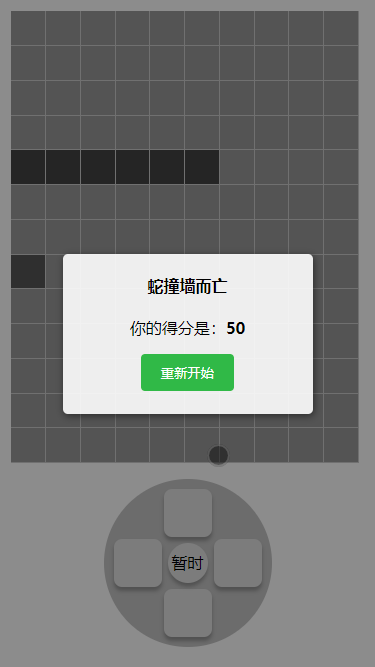
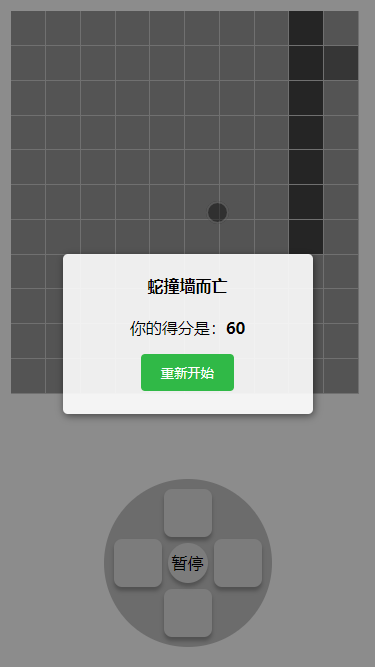
修复吃自己判断错误和多重加速问题

diff --git a/index.html b/index.html
@@ -3,9 +3,9 @@
   <meta charset="utf-8">
   <meta http-equiv="X-UA-Compatible" content="IE=edge,chrome=1">
   <meta name="viewport" content="width=device-width,minimum-scale=1.0,maximum-scale=1.0,user-scalable=no">
-  <title>Greedy snake</title>
-  <meta name="keywords" content="Greedy snake">
-  <meta name="description" content="Greedy snake">
+  <title>贪吃蛇(Greedy snake)</title>
+  <meta name="keywords" content="贪吃蛇,Greedy snake">
+  <meta name="description" content="贪吃蛇,Greedy snake">
   <style>
     body {
       padding: 0;
@@ -143,17 +143,18 @@
     </div>
   </div>
   <script>
-    let maxX = 10, maxY = 13, maxSize = maxX * maxY, snakes = [], food
+    let maxX = 10, maxY = 11, maxSize = maxX * maxY, snakes = [], food
     let directions = [[-1, 0], [0, -1], [1, 0], [0, 1]]// createInt(4) // direction 0:左,1:上,2:右,3:下
     let directionIdx = createInt(4)
     let direction = directions[directionIdx]
     let gameOver = false, timer, isPause = false
     let score = 0 // 得分
+    let speed = 500
 
     createSpaceUI()
     start()
 
-    document.addEventListener('keydown', handleKeyDown, false)
+    window.addEventListener('keydown', handleKeyDown, false)
 
     document.getElementById('handle').addEventListener('click', handleClick, false)
 
@@ -200,7 +201,6 @@
 
       if (isForward) {
         clearTimeout(timer)
-        move(false)
         move()
       }
 
@@ -258,19 +258,19 @@
      * 重新开始游戏
      */
     function restart () {
-      const snakeDom = document.getElementsByClassName('snake')
       const foodDom = document.getElementsByClassName('food')
+      let snakeDom
 
-      if (snakeDom) {
-        for (var i = 0; i < snakeDom.length; i++) {
+      snakes.forEach((item, idx) => {
+        snakeDom = document.getElementsByClassName('snake')
+
+        if (snakeDom && snakeDom[0]) {
           snakeDom[0].className = 'column'
         }
-      }
+      })
 
-      if (foodDom) {
-        for (var i = 0; i < foodDom.length; i++) {
-          foodDom[0].className = 'column'
-        }
+      if (foodDom && foodDom[0]) {
+        foodDom[0].className = 'column'
       }
 
       snakes = []
@@ -278,6 +278,7 @@
       direction = directions[directionIdx]
       gameOver = false
       isPause = false
+      score = 0
       start()
     }
 
@@ -289,13 +290,6 @@
       createFood(snakes)
       snakeMove()
       move()
-    }
-
-    /**
-     * 游戏暂停
-     */
-    function pause () {
-
     }
 
     /**
@@ -376,7 +370,7 @@
     /**
      * 蛇移动
      */
-    function move (auto = true) {
+    function move () {
       const head = snakes[0]
       const x = head[0] + direction[0]
       const y = head[1] + direction[1]
@@ -403,7 +397,7 @@
         return
       }
 
-      if (isTail(x, y)) {
+      if (isSelf(x, y)) {
         gameOver = true
         clearEvent('蛇吃了自己')
         return
@@ -415,18 +409,9 @@
         return
       }
 
-      if (auto) {
-        timer = setTimeout(() => {
-          move()
-        }, 1000)
-      }
-    }
-
-    /**
-     * 蛇转向
-     */
-    function turnTo () {
-
+      timer = setTimeout(() => {
+        move()
+      }, speed)
     }
 
     /**
@@ -437,11 +422,20 @@
     }
 
     /**
-     * 判断是否尾巴
+     * 判断是否咬到自己
      */
-    function isTail (x, y) {
-      const last = snakes.length - 1
-      return last >= 4 && snakes[last][0] === x && snakes[last][1] === y
+    function isSelf (x, y) {
+      const size = snakes.length
+      let self = false
+
+      for (var i = 4; i < size; i++) {
+        if (snakes[i][0] === x && snakes[i][1] === y) {
+          self = true
+          break
+        }
+      }
+
+      return self
     }
 
     /**
